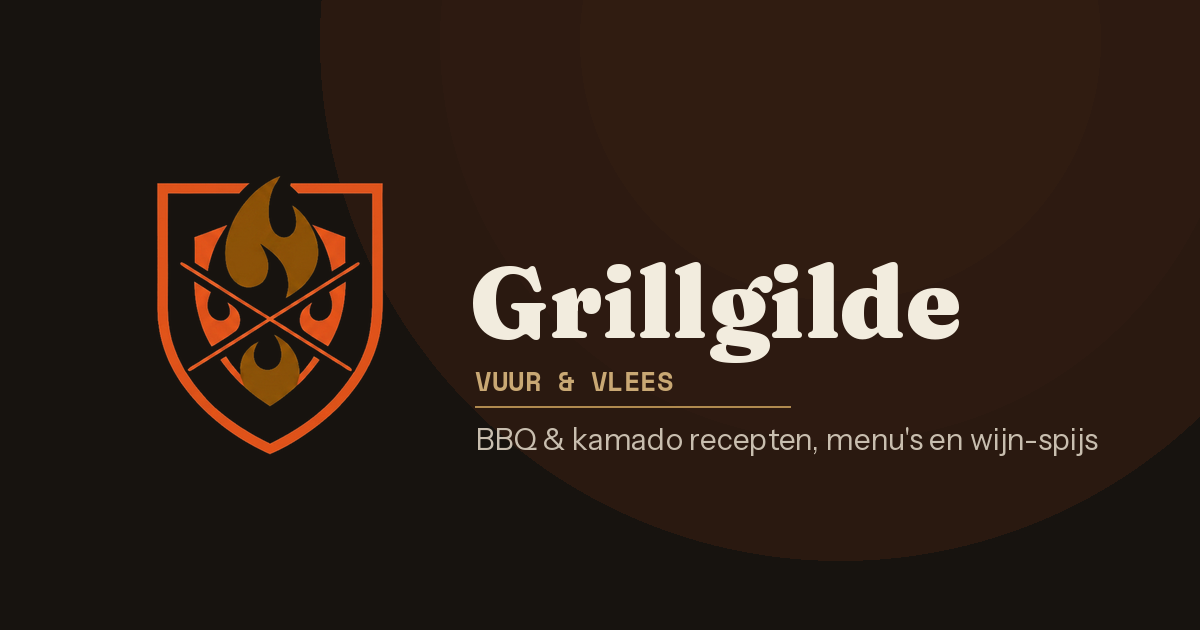
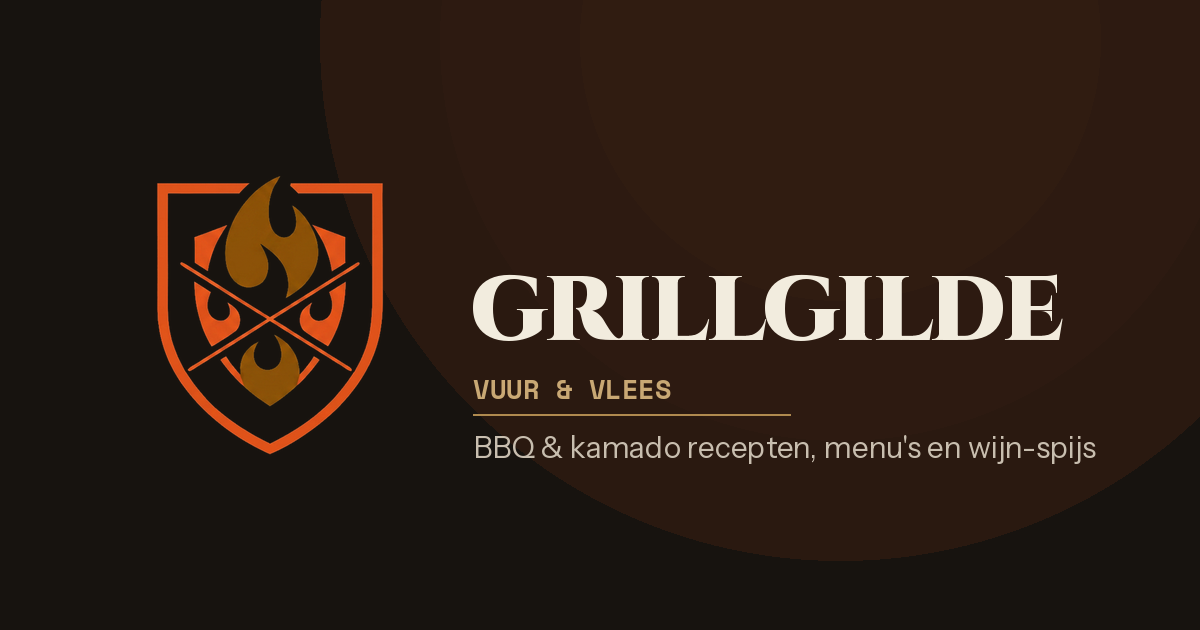
9

Changed region(s): [[0.4008, 0.4222, 0.8942, 0.573], [0.37, 0.573, 0.925, 0.7238]]

diff --git a/assets/style.css b/assets/style.css
@@ -293,7 +293,7 @@ footer{background:var(--soot-2);color:var(--ash);padding:50px 0 30px;margin-top:
 .more{background:none;border:none;color:var(--ember);font-family:'"'"'Space Mono'"'"',monospace;font-size:11px;font-weight:700;cursor:pointer;padding:8px 0 2px;letter-spacing:.04em}
 .more:hover{text-decoration:underline}
 .brand .seal{width:auto;height:54px;flex:0 0 auto}
-.brand .wm b{font-size:24px}
+.brand .wm b{font-family:'Cinzel',serif;font-weight:900;font-size:21px;letter-spacing:-0.03em;text-transform:uppercase}
 .brand .wm span{font-size:10px}
 .about-seal img{opacity:.95}
 /* editorial intro story */

diff --git a/beheer.html b/beheer.html
@@ -2,7 +2,7 @@
 <title>Beheer, Grillgilde</title><meta name="description" content="Afgeschermd receptbeheer."><link rel="canonical" href="https://grillgilde.nl/beheer.html">
 <meta property="og:type" content="website"><meta property="og:title" content="Beheer, Grillgilde"><meta property="og:description" content="Afgeschermd receptbeheer."><meta property="og:image" content="https://grillgilde.nl/assets/og.png"><meta property="og:url" content="https://grillgilde.nl/beheer.html"><meta name="twitter:card" content="summary_large_image">
 <link rel="preconnect" href="https://fonts.googleapis.com"><link rel="preconnect" href="https://fonts.gstatic.com" crossorigin>
-<link href="https://fonts.googleapis.com/css2?family=Fraunces:opsz,wght@9..144,400;9..144,500;9..144,600;9..144,700;9..144,900&family=Instrument+Sans:wght@400;500;600;700&family=Space+Mono:wght@400;700&display=swap" rel="stylesheet">
+<link href="https://fonts.googleapis.com/css2?family=Fraunces:opsz,wght@9..144,400;9..144,500;9..144,600;9..144,700;9..144,900&family=Instrument+Sans:wght@400;500;600;700&family=Space+Mono:wght@400;700&family=Cinzel:wght@600;700;900&display=swap" rel="stylesheet">
 <link rel="icon" type="image/png" sizes="32x32" href="assets/favicon-32.png"><link rel="apple-touch-icon" href="assets/favicon-180.png"><link rel="stylesheet" href="assets/style.css"></head><body><header><div class="wrap nav">
   <a class="brand" href="index.html"><img class="seal" src="assets/logo-emblem.png" alt="Grillgilde-embleem"><span class="wm"><b>Grillgilde</b><span>Vuur &amp; Vlees</span></span></a>
   <nav class="links"><a href="recepten.html">Recepten</a><a href="menus.html">Menu's</a><a href="techniek.html">Techniek</a><a href="over.html">Over 't gilde</a><a href="contact.html">Contact</a></nav>

diff --git a/contact.html b/contact.html
@@ -2,7 +2,7 @@
 <title>Contact, Grillgilde</title><meta name="description" content="Neem contact op met Grillgilde voor vragen, tips of samenwerkingen."><link rel="canonical" href="https://grillgilde.nl/contact.html">
 <meta property="og:type" content="website"><meta property="og:title" content="Contact, Grillgilde"><meta property="og:description" content="Neem contact op met Grillgilde voor vragen, tips of samenwerkingen."><meta property="og:image" content="https://grillgilde.nl/assets/og.png"><meta property="og:url" content="https://grillgilde.nl/contact.html"><meta name="twitter:card" content="summary_large_image">
 <link rel="preconnect" href="https://fonts.googleapis.com"><link rel="preconnect" href="https://fonts.gstatic.com" crossorigin>
-<link href="https://fonts.googleapis.com/css2?family=Fraunces:opsz,wght@9..144,400;9..144,500;9..144,600;9..144,700;9..144,900&family=Instrument+Sans:wght@400;500;600;700&family=Space+Mono:wght@400;700&display=swap" rel="stylesheet">
+<link href="https://fonts.googleapis.com/css2?family=Fraunces:opsz,wght@9..144,400;9..144,500;9..144,600;9..144,700;9..144,900&family=Instrument+Sans:wght@400;500;600;700&family=Space+Mono:wght@400;700&family=Cinzel:wght@600;700;900&display=swap" rel="stylesheet">
 <link rel="icon" type="image/png" sizes="32x32" href="assets/favicon-32.png"><link rel="apple-touch-icon" href="assets/favicon-180.png"><link rel="stylesheet" href="assets/style.css"></head><body><header><div class="wrap nav">
   <a class="brand" href="index.html"><img class="seal" src="assets/logo-emblem.png" alt="Grillgilde-embleem"><span class="wm"><b>Grillgilde</b><span>Vuur &amp; Vlees</span></span></a>
   <nav class="links"><a href="recepten.html">Recepten</a><a href="menus.html">Menu's</a><a href="techniek.html">Techniek</a><a href="over.html">Over 't gilde</a><a href="contact.html" class=active>Contact</a></nav>

diff --git a/index.html b/index.html
@@ -2,7 +2,7 @@
 <title>Grillgilde, BBQ & kamado recepten, menu's en wijn-spijs</title><meta name="description" content="Beproefde BBQ- en kamado-recepten van over de hele wereld, met bijgerechten, complete menu's, techniek en wijn-spijs. Word lid van 't gilde."><link rel="canonical" href="https://grillgilde.nl/index.html">
 <meta property="og:type" content="website"><meta property="og:title" content="Grillgilde, BBQ & kamado recepten, menu's en wijn-spijs"><meta property="og:description" content="Beproefde BBQ- en kamado-recepten van over de hele wereld, met bijgerechten, complete menu's, techniek en wijn-spijs. Word lid van 't gilde."><meta property="og:image" content="https://grillgilde.nl/assets/og.png"><meta property="og:url" content="https://grillgilde.nl/index.html"><meta name="twitter:card" content="summary_large_image">
 <link rel="preconnect" href="https://fonts.googleapis.com"><link rel="preconnect" href="https://fonts.gstatic.com" crossorigin>
-<link href="https://fonts.googleapis.com/css2?family=Fraunces:opsz,wght@9..144,400;9..144,500;9..144,600;9..144,700;9..144,900&family=Instrument+Sans:wght@400;500;600;700&family=Space+Mono:wght@400;700&display=swap" rel="stylesheet">
+<link href="https://fonts.googleapis.com/css2?family=Fraunces:opsz,wght@9..144,400;9..144,500;9..144,600;9..144,700;9..144,900&family=Instrument+Sans:wght@400;500;600;700&family=Space+Mono:wght@400;700&family=Cinzel:wght@600;700;900&display=swap" rel="stylesheet">
 <link rel="icon" type="image/png" sizes="32x32" href="assets/favicon-32.png"><link rel="apple-touch-icon" href="assets/favicon-180.png"><link rel="stylesheet" href="assets/style.css"></head><body><header><div class="wrap nav">
   <a class="brand" href="index.html"><img class="seal" src="assets/logo-emblem.png" alt="Grillgilde-embleem"><span class="wm"><b>Grillgilde</b><span>Vuur &amp; Vlees</span></span></a>
   <nav class="links"><a href="recepten.html">Recepten</a><a href="menus.html">Menu's</a><a href="techniek.html">Techniek</a><a href="over.html">Over 't gilde</a><a href="contact.html">Contact</a></nav>

diff --git a/menu-amerikaanse-cookout.html b/menu-amerikaanse-cookout.html
@@ -2,7 +2,7 @@
 <title>Amerikaanse cookout, compleet BBQ-menu met timing | Grillgilde</title><meta name="description" content="Snel en gul: sappige smashburgers met mac & cheese, elote en aardappelsalade. Compleet menu met bijgerechten, wijn & bier en kooktijdlijn."><link rel="canonical" href="https://grillgilde.nl/menu-amerikaanse-cookout.html">
 <meta property="og:type" content="website"><meta property="og:title" content="Amerikaanse cookout, compleet BBQ-menu met timing | Grillgilde"><meta property="og:description" content="Snel en gul: sappige smashburgers met mac & cheese, elote en aardappelsalade. Compleet menu met bijgerechten, wijn & bier en kooktijdlijn."><meta property="og:image" content="https://grillgilde.nl/assets/og.png"><meta property="og:url" content="https://grillgilde.nl/menu-amerikaanse-cookout.html"><meta name="twitter:card" content="summary_large_image">
 <link rel="preconnect" href="https://fonts.googleapis.com"><link rel="preconnect" href="https://fonts.gstatic.com" crossorigin>
-<link href="https://fonts.googleapis.com/css2?family=Fraunces:opsz,wght@9..144,400;9..144,500;9..144,600;9..144,700;9..144,900&family=Instrument+Sans:wght@400;500;600;700&family=Space+Mono:wght@400;700&display=swap" rel="stylesheet">
+<link href="https://fonts.googleapis.com/css2?family=Fraunces:opsz,wght@9..144,400;9..144,500;9..144,600;9..144,700;9..144,900&family=Instrument+Sans:wght@400;500;600;700&family=Space+Mono:wght@400;700&family=Cinzel:wght@600;700;900&display=swap" rel="stylesheet">
 <link rel="icon" type="image/png" sizes="32x32" href="assets/favicon-32.png"><link rel="apple-touch-icon" href="assets/favicon-180.png"><link rel="stylesheet" href="assets/style.css"></head><body><header><div class="wrap nav">
   <a class="brand" href="index.html"><img class="seal" src="assets/logo-emblem.png" alt="Grillgilde-embleem"><span class="wm"><b>Grillgilde</b><span>Vuur &amp; Vlees</span></span></a>
   <nav class="links"><a href="recepten.html">Recepten</a><a href="menus.html" class=active>Menu's</a><a href="techniek.html">Techniek</a><a href="over.html">Over 't gilde</a><a href="contact.html">Contact</a></nav>

diff --git a/menu-argentijnse-asado.html b/menu-argentijnse-asado.html
@@ -2,7 +2,7 @@
 <title>Argentijnse asado, compleet BBQ-menu met timing | Grillgilde</title><meta name="description" content="Vuur, vlees en chimichurri: picanha op de draaispies met frisse, groene bijgerechten. Compleet menu met bijgerechten, wijn & bier en kooktijdlijn."><link rel="canonical" href="https://grillgilde.nl/menu-argentijnse-asado.html">
 <meta property="og:type" content="website"><meta property="og:title" content="Argentijnse asado, compleet BBQ-menu met timing | Grillgilde"><meta property="og:description" content="Vuur, vlees en chimichurri: picanha op de draaispies met frisse, groene bijgerechten. Compleet menu met bijgerechten, wijn & bier en kooktijdlijn."><meta property="og:image" content="https://grillgilde.nl/assets/og.png"><meta property="og:url" content="https://grillgilde.nl/menu-argentijnse-asado.html"><meta name="twitter:card" content="summary_large_image">
 <link rel="preconnect" href="https://fonts.googleapis.com"><link rel="preconnect" href="https://fonts.gstatic.com" crossorigin>
-<link href="https://fonts.googleapis.com/css2?family=Fraunces:opsz,wght@9..144,400;9..144,500;9..144,600;9..144,700;9..144,900&family=Instrument+Sans:wght@400;500;600;700&family=Space+Mono:wght@400;700&display=swap" rel="stylesheet">
+<link href="https://fonts.googleapis.com/css2?family=Fraunces:opsz,wght@9..144,400;9..144,500;9..144,600;9..144,700;9..144,900&family=Instrument+Sans:wght@400;500;600;700&family=Space+Mono:wght@400;700&family=Cinzel:wght@600;700;900&display=swap" rel="stylesheet">
 <link rel="icon" type="image/png" sizes="32x32" href="assets/favicon-32.png"><link rel="apple-touch-icon" href="assets/favicon-180.png"><link rel="stylesheet" href="assets/style.css"></head><body><header><div class="wrap nav">
   <a class="brand" href="index.html"><img class="seal" src="assets/logo-emblem.png" alt="Grillgilde-embleem"><span class="wm"><b>Grillgilde</b><span>Vuur &amp; Vlees</span></span></a>
   <nav class="links"><a href="recepten.html">Recepten</a><a href="menus.html" class=active>Menu's</a><a href="techniek.html">Techniek</a><a href="over.html">Over 't gilde</a><a href="contact.html">Contact</a></nav>

diff --git a/menu-aziatische-grillavond.html b/menu-aziatische-grillavond.html
@@ -2,7 +2,7 @@
 <title>Aziatische grillavond, compleet BBQ-menu met timing | Grillgilde</title><meta name="description" content="Umami en pit: yakitori-spiesen met misoaubergine en een frisse kimchi-slaw. Compleet menu met bijgerechten, wijn & bier en kooktijdlijn."><link rel="canonical" href="https://grillgilde.nl/menu-aziatische-grillavond.html">
 <meta property="og:type" content="website"><meta property="og:title" content="Aziatische grillavond, compleet BBQ-menu met timing | Grillgilde"><meta property="og:description" content="Umami en pit: yakitori-spiesen met misoaubergine en een frisse kimchi-slaw. Compleet menu met bijgerechten, wijn & bier en kooktijdlijn."><meta property="og:image" content="https://grillgilde.nl/assets/og.png"><meta property="og:url" content="https://grillgilde.nl/menu-aziatische-grillavond.html"><meta name="twitter:card" content="summary_large_image">
 <link rel="preconnect" href="https://fonts.googleapis.com"><link rel="preconnect" href="https://fonts.gstatic.com" crossorigin>
-<link href="https://fonts.googleapis.com/css2?family=Fraunces:opsz,wght@9..144,400;9..144,500;9..144,600;9..144,700;9..144,900&family=Instrument+Sans:wght@400;500;600;700&family=Space+Mono:wght@400;700&display=swap" rel="stylesheet">
+<link href="https://fonts.googleapis.com/css2?family=Fraunces:opsz,wght@9..144,400;9..144,500;9..144,600;9..144,700;9..144,900&family=Instrument+Sans:wght@400;500;600;700&family=Space+Mono:wght@400;700&family=Cinzel:wght@600;700;900&display=swap" rel="stylesheet">
 <link rel="icon" type="image/png" sizes="32x32" href="assets/favicon-32.png"><link rel="apple-touch-icon" href="assets/favicon-180.png"><link rel="stylesheet" href="assets/style.css"></head><body><header><div class="wrap nav">
   <a class="brand" href="index.html"><img class="seal" src="assets/logo-emblem.png" alt="Grillgilde-embleem"><span class="wm"><b>Grillgilde</b><span>Vuur &amp; Vlees</span></span></a>
   <nav class="links"><a href="recepten.html">Recepten</a><a href="menus.html" class=active>Menu's</a><a href="techniek.html">Techniek</a><a href="over.html">Over 't gilde</a><a href="contact.html">Contact</a></nav>

diff --git a/menu-mediterrane-grillavond.html b/menu-mediterrane-grillavond.html
@@ -2,7 +2,7 @@
 <title>Mediterrane grillavond, compleet BBQ-menu met timing | Grillgilde</title><meta name="description" content="Licht en zonnig: zeebaars in zoutkorst met tzatziki, halloumi en gegrilde watermeloen. Compleet menu met bijgerechten, wijn & bier en kooktijdlijn."><link rel="canonical" href="https://grillgilde.nl/menu-mediterrane-grillavond.html">
 <meta property="og:type" content="website"><meta property="og:title" content="Mediterrane grillavond, compleet BBQ-menu met timing | Grillgilde"><meta property="og:description" content="Licht en zonnig: zeebaars in zoutkorst met tzatziki, halloumi en gegrilde watermeloen. Compleet menu met bijgerechten, wijn & bier en kooktijdlijn."><meta property="og:image" content="https://grillgilde.nl/assets/og.png"><meta property="og:url" content="https://grillgilde.nl/menu-mediterrane-grillavond.html"><meta name="twitter:card" content="summary_large_image">
 <link rel="preconnect" href="https://fonts.googleapis.com"><link rel="preconnect" href="https://fonts.gstatic.com" crossorigin>
-<link href="https://fonts.googleapis.com/css2?family=Fraunces:opsz,wght@9..144,400;9..144,500;9..144,600;9..144,700;9..144,900&family=Instrument+Sans:wght@400;500;600;700&family=Space+Mono:wght@400;700&display=swap" rel="stylesheet">
+<link href="https://fonts.googleapis.com/css2?family=Fraunces:opsz,wght@9..144,400;9..144,500;9..144,600;9..144,700;9..144,900&family=Instrument+Sans:wght@400;500;600;700&family=Space+Mono:wght@400;700&family=Cinzel:wght@600;700;900&display=swap" rel="stylesheet">
 <link rel="icon" type="image/png" sizes="32x32" href="assets/favicon-32.png"><link rel="apple-touch-icon" href="assets/favicon-180.png"><link rel="stylesheet" href="assets/style.css"></head><body><header><div class="wrap nav">
   <a class="brand" href="index.html"><img class="seal" src="assets/logo-emblem.png" alt="Grillgilde-embleem"><span class="wm"><b>Grillgilde</b><span>Vuur &amp; Vlees</span></span></a>
   <nav class="links"><a href="recepten.html">Recepten</a><a href="menus.html" class=active>Menu's</a><a href="techniek.html">Techniek</a><a href="over.html">Over 't gilde</a><a href="contact.html">Contact</a></nav>

diff --git a/menu-texas-low-and-slow-avond.html b/menu-texas-low-and-slow-avond.html
@@ -2,7 +2,7 @@
 <title>Texas low & slow-avond, compleet BBQ-menu met timing | Grillgilde</title><meta name="description" content="Een avond rond rook en geduld: boterzachte brisket met de klassieke Amerikaanse bijgerechten. Compleet menu met bijgerechten, wijn & bier en kooktijdlijn."><link rel="canonical" href="https://grillgilde.nl/menu-texas-low-and-slow-avond.html">
 <meta property="og:type" content="website"><meta property="og:title" content="Texas low & slow-avond, compleet BBQ-menu met timing | Grillgilde"><meta property="og:description" content="Een avond rond rook en geduld: boterzachte brisket met de klassieke Amerikaanse bijgerechten. Compleet menu met bijgerechten, wijn & bier en kooktijdlijn."><meta property="og:image" content="https://grillgilde.nl/assets/og.png"><meta property="og:url" content="https://grillgilde.nl/menu-texas-low-and-slow-avond.html"><meta name="twitter:card" content="summary_large_image">
 <link rel="preconnect" href="https://fonts.googleapis.com"><link rel="preconnect" href="https://fonts.gstatic.com" crossorigin>
-<link href="https://fonts.googleapis.com/css2?family=Fraunces:opsz,wght@9..144,400;9..144,500;9..144,600;9..144,700;9..144,900&family=Instrument+Sans:wght@400;500;600;700&family=Space+Mono:wght@400;700&display=swap" rel="stylesheet">
+<link href="https://fonts.googleapis.com/css2?family=Fraunces:opsz,wght@9..144,400;9..144,500;9..144,600;9..144,700;9..144,900&family=Instrument+Sans:wght@400;500;600;700&family=Space+Mono:wght@400;700&family=Cinzel:wght@600;700;900&display=swap" rel="stylesheet">
 <link rel="icon" type="image/png" sizes="32x32" href="assets/favicon-32.png"><link rel="apple-touch-icon" href="assets/favicon-180.png"><link rel="stylesheet" href="assets/style.css"></head><body><header><div class="wrap nav">
   <a class="brand" href="index.html"><img class="seal" src="assets/logo-emblem.png" alt="Grillgilde-embleem"><span class="wm"><b>Grillgilde</b><span>Vuur &amp; Vlees</span></span></a>
   <nav class="links"><a href="recepten.html">Recepten</a><a href="menus.html" class=active>Menu's</a><a href="techniek.html">Techniek</a><a href="over.html">Over 't gilde</a><a href="contact.html">Contact</a></nav>

diff --git a/menus.html b/menus.html
@@ -2,7 +2,7 @@
 <title>BBQ-menu's, complete avonden met timing & wijn-spijs | Grillgilde</title><meta name="description" content="Complete BBQ- en kamado-menu's: hoofdgerecht, bijgerechten, wijn & bier en een kooktijdlijn zodat alles tegelijk klaar is."><link rel="canonical" href="https://grillgilde.nl/menus.html">
 <meta property="og:type" content="website"><meta property="og:title" content="BBQ-menu's, complete avonden met timing & wijn-spijs | Grillgilde"><meta property="og:description" content="Complete BBQ- en kamado-menu's: hoofdgerecht, bijgerechten, wijn & bier en een kooktijdlijn zodat alles tegelijk klaar is."><meta property="og:image" content="https://grillgilde.nl/assets/og.png"><meta property="og:url" content="https://grillgilde.nl/menus.html"><meta name="twitter:card" content="summary_large_image">
 <link rel="preconnect" href="https://fonts.googleapis.com"><link rel="preconnect" href="https://fonts.gstatic.com" crossorigin>
-<link href="https://fonts.googleapis.com/css2?family=Fraunces:opsz,wght@9..144,400;9..144,500;9..144,600;9..144,700;9..144,900&family=Instrument+Sans:wght@400;500;600;700&family=Space+Mono:wght@400;700&display=swap" rel="stylesheet">
+<link href="https://fonts.googleapis.com/css2?family=Fraunces:opsz,wght@9..144,400;9..144,500;9..144,600;9..144,700;9..144,900&family=Instrument+Sans:wght@400;500;600;700&family=Space+Mono:wght@400;700&family=Cinzel:wght@600;700;900&display=swap" rel="stylesheet">
 <link rel="icon" type="image/png" sizes="32x32" href="assets/favicon-32.png"><link rel="apple-touch-icon" href="assets/favicon-180.png"><link rel="stylesheet" href="assets/style.css"></head><body><header><div class="wrap nav">
   <a class="brand" href="index.html"><img class="seal" src="assets/logo-emblem.png" alt="Grillgilde-embleem"><span class="wm"><b>Grillgilde</b><span>Vuur &amp; Vlees</span></span></a>
   <nav class="links"><a href="recepten.html">Recepten</a><a href="menus.html" class=active>Menu's</a><a href="techniek.html">Techniek</a><a href="over.html">Over 't gilde</a><a href="contact.html">Contact</a></nav>

diff --git a/nieuwsbrief.html b/nieuwsbrief.html
@@ -2,7 +2,7 @@
 <title>Nieuwsbrief, nieuwe BBQ-recepten in je inbox | Grillgilde</title><meta name="description" content="Meld je aan voor de Grillgilde-nieuwsbrief: nieuwe kamado- en BBQ-recepten, menu's en wijn-spijs. Eén mail per maand, geen spam."><link rel="canonical" href="https://grillgilde.nl/nieuwsbrief.html">
 <meta property="og:type" content="website"><meta property="og:title" content="Nieuwsbrief, nieuwe BBQ-recepten in je inbox | Grillgilde"><meta property="og:description" content="Meld je aan voor de Grillgilde-nieuwsbrief: nieuwe kamado- en BBQ-recepten, menu's en wijn-spijs. Eén mail per maand, geen spam."><meta property="og:image" content="https://grillgilde.nl/assets/og.png"><meta property="og:url" content="https://grillgilde.nl/nieuwsbrief.html"><meta name="twitter:card" content="summary_large_image">
 <link rel="preconnect" href="https://fonts.googleapis.com"><link rel="preconnect" href="https://fonts.gstatic.com" crossorigin>
-<link href="https://fonts.googleapis.com/css2?family=Fraunces:opsz,wght@9..144,400;9..144,500;9..144,600;9..144,700;9..144,900&family=Instrument+Sans:wght@400;500;600;700&family=Space+Mono:wght@400;700&display=swap" rel="stylesheet">
+<link href="https://fonts.googleapis.com/css2?family=Fraunces:opsz,wght@9..144,400;9..144,500;9..144,600;9..144,700;9..144,900&family=Instrument+Sans:wght@400;500;600;700&family=Space+Mono:wght@400;700&family=Cinzel:wght@600;700;900&display=swap" rel="stylesheet">
 <link rel="icon" type="image/png" sizes="32x32" href="assets/favicon-32.png"><link rel="apple-touch-icon" href="assets/favicon-180.png"><link rel="stylesheet" href="assets/style.css"></head><body><header><div class="wrap nav">
   <a class="brand" href="index.html"><img class="seal" src="assets/logo-emblem.png" alt="Grillgilde-embleem"><span class="wm"><b>Grillgilde</b><span>Vuur &amp; Vlees</span></span></a>
   <nav class="links"><a href="recepten.html">Recepten</a><a href="menus.html">Menu's</a><a href="techniek.html">Techniek</a><a href="over.html">Over 't gilde</a><a href="contact.html">Contact</a></nav>

diff --git a/over.html b/over.html
@@ -2,7 +2,7 @@
 <title>Over 't gilde, het verhaal achter Grillgilde | Grillgilde</title><meta name="description" content="Grillgilde bundelt de beste BBQ- en kamado-recepten van over de hele wereld, met bijgerechten, menu's, techniek en wijn-spijs i.s.m. Van Lieverlee in Bladel."><link rel="canonical" href="https://grillgilde.nl/over.html">
 <meta property="og:type" content="website"><meta property="og:title" content="Over 't gilde, het verhaal achter Grillgilde | Grillgilde"><meta property="og:description" content="Grillgilde bundelt de beste BBQ- en kamado-recepten van over de hele wereld, met bijgerechten, menu's, techniek en wijn-spijs i.s.m. Van Lieverlee in Bladel."><meta property="og:image" content="https://grillgilde.nl/assets/og.png"><meta property="og:url" content="https://grillgilde.nl/over.html"><meta name="twitter:card" content="summary_large_image">
 <link rel="preconnect" href="https://fonts.googleapis.com"><link rel="preconnect" href="https://fonts.gstatic.com" crossorigin>
-<link href="https://fonts.googleapis.com/css2?family=Fraunces:opsz,wght@9..144,400;9..144,500;9..144,600;9..144,700;9..144,900&family=Instrument+Sans:wght@400;500;600;700&family=Space+Mono:wght@400;700&display=swap" rel="stylesheet">
+<link href="https://fonts.googleapis.com/css2?family=Fraunces:opsz,wght@9..144,400;9..144,500;9..144,600;9..144,700;9..144,900&family=Instrument+Sans:wght@400;500;600;700&family=Space+Mono:wght@400;700&family=Cinzel:wght@600;700;900&display=swap" rel="stylesheet">
 <link rel="icon" type="image/png" sizes="32x32" href="assets/favicon-32.png"><link rel="apple-touch-icon" href="assets/favicon-180.png"><link rel="stylesheet" href="assets/style.css"></head><body><header><div class="wrap nav">
   <a class="brand" href="index.html"><img class="seal" src="assets/logo-emblem.png" alt="Grillgilde-embleem"><span class="wm"><b>Grillgilde</b><span>Vuur &amp; Vlees</span></span></a>
   <nav class="links"><a href="recepten.html">Recepten</a><a href="menus.html">Menu's</a><a href="techniek.html">Techniek</a><a href="over.html" class=active>Over 't gilde</a><a href="contact.html">Contact</a></nav>